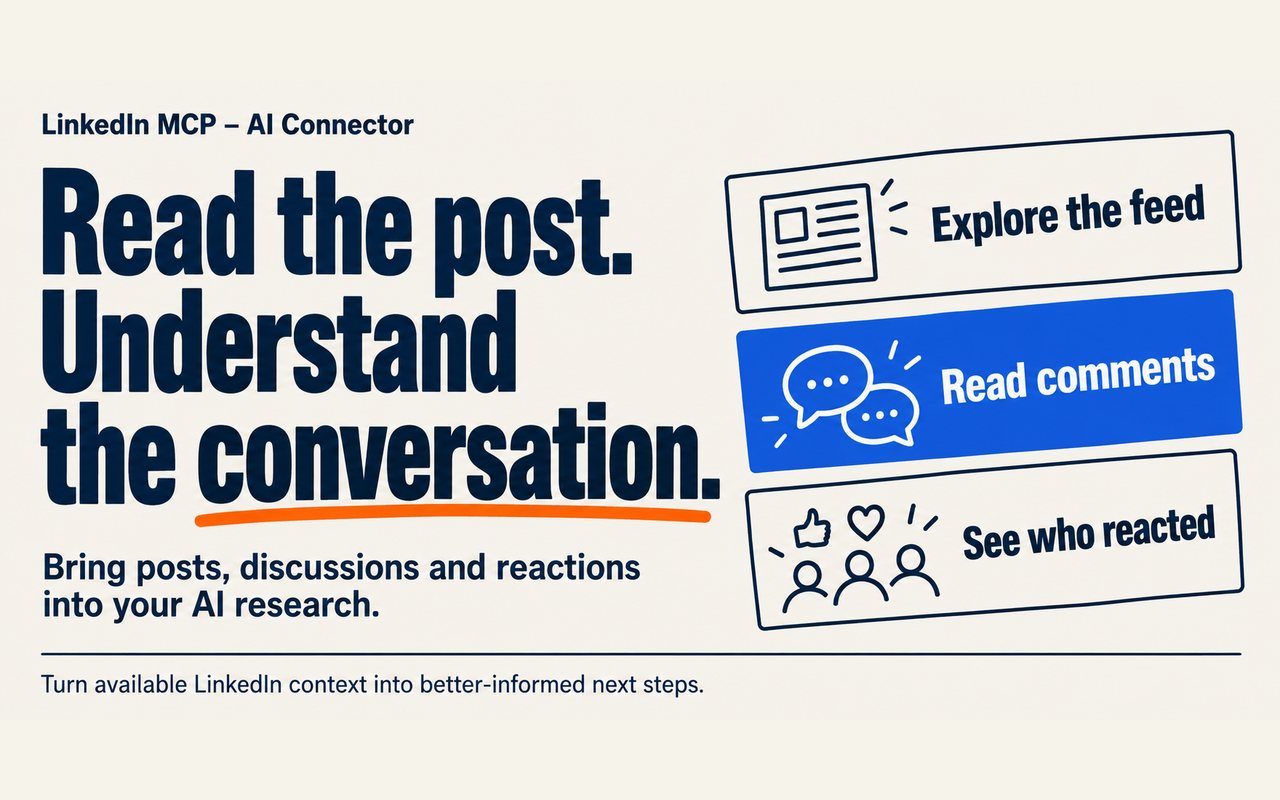
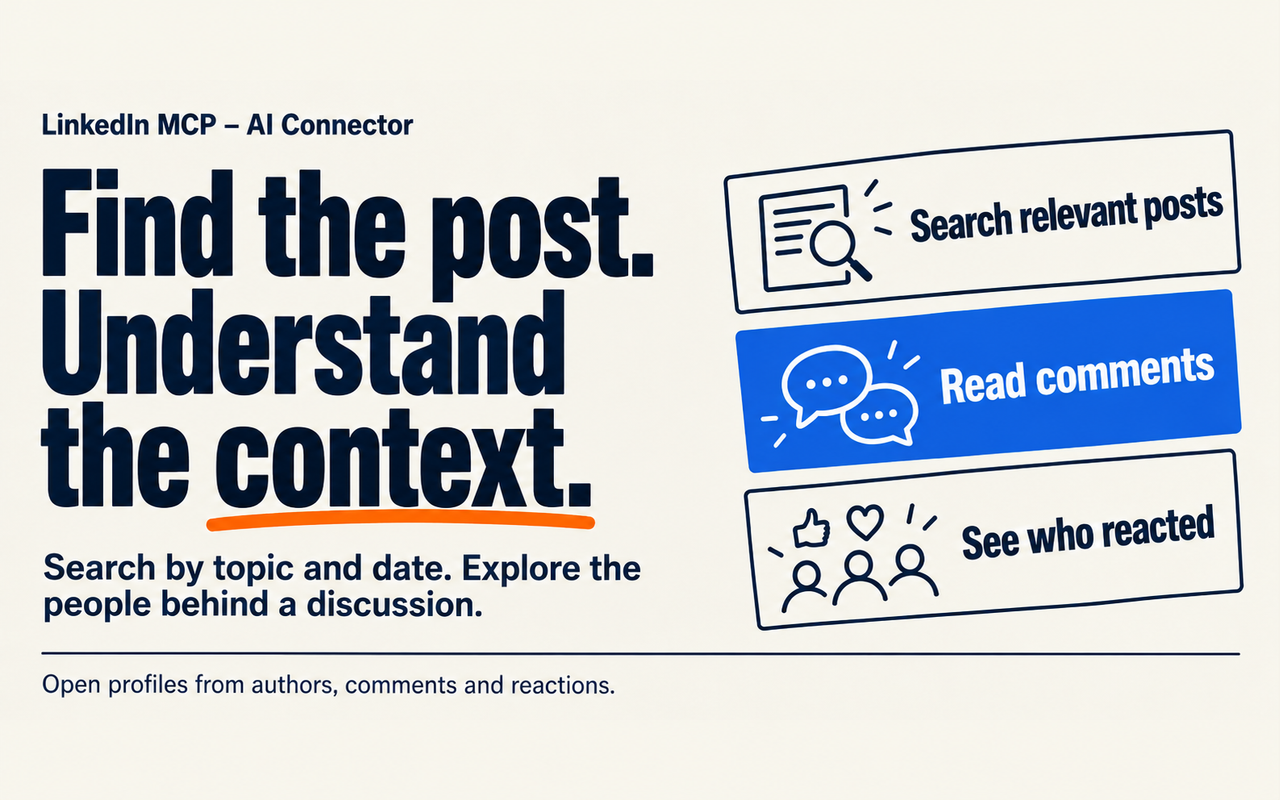
Refresh Store stories and explainers for current LinkedIn primitives

diff --git a/store/SUBMISSION.md b/store/SUBMISSION.md
@@ -1,16 +1,16 @@
-# Chrome Web Store draft — 0.7.1
+# Chrome Web Store draft — 0.7.2 listing refresh
 
-The 0.7.1 package is prepared locally only. No portal upload, submission or publication was performed in this repair increment. The last verified portal state remains the 0.6.0 draft; the previous 0.7.0 upload was unconfirmed after Google requested renewed sign-in. The existing listing and five explainers remain unchanged.
+The listing copy and four of the five explainer graphics were updated locally on 2026-11-01 to reflect the 0.7.2 capability set. This is a targeted refresh of the existing positioning and visual style, not a new product direction. The title, publishing graphic, icon and both promo tiles are unchanged. The portal update is pending: the existing Store session expired and Google now requires the account owner's passkey. No new package upload, submission or publication has been performed. The last verified portal package remains the 0.6.0 draft; the previous 0.7.0 upload was unconfirmed after renewed sign-in.
 
[2 lines of base64/hex data omitted]
 
-All 21 read/diagnostic capabilities and macOS/Windows installation prerequisites have current matching-runtime evidence. Submission remains blocked by eleven missing current-runtime write capability proofs; this increment intentionally performs no live writes. Historical dispatch proofs retain their original fingerprints. See `docs/validation.md` and `docs/repairs-0.7.1.md` for the exact repair and acceptance scope.
[1 lines of base64/hex data omitted]
 
 - Draft: https://chrome.google.com/webstore/devconsole/ca8c63eb-664b-4353-ac7c-af776311ddff/pibhcinkiadfplcaefllaeappkpnpfjm/edit
 - Assigned extension ID: `pibhcinkiadfplcaefllaeappkpnpfjm`.
 - Listing language: English; category: Productivity / Tools.
 - Distribution: free, public, all regions (applies after publication).
-- Saved: description, icon, five explainer graphics, both promo tiles, homepage/support links, permission justifications, privacy URL and reviewer setup instructions.
+- Previously saved: description, icon, five explainer graphics, both promo tiles, homepage/support links, permission justifications, privacy URL and reviewer setup instructions. The 2026-11-01 replacement description and gallery are local until the passkey-gated portal save is verified.
 - Declared data: personally identifiable information, personal communications, website content. No remote executable code.
 
 - Extension: build with `npm run package:store`; upload `dist/linkedin-extension.zip`.
@@ -19,7 +19,7 @@ All 21 read/diagnostic capabilities and macOS/Windows installation prerequisites
 - Repository and installation: https://github.com/h4gen/linkedin-mcp-bridge
 - Support: https://github.com/h4gen/linkedin-mcp-bridge/issues
 - Reviewer installation/test instructions: `store/reviewer.md`.
-- Five Store gallery explainers remain unchanged: inbox, research, people, feed and publishing in `store/explainers/upload/`. These are illustrated capability explanations, not literal UI captures.
+- Five Store gallery explainers in upload order: inbox, feed, people, research (relationships) and publishing in `store/explainers/upload/`. The first four are refreshed; publishing is unchanged. These are illustrated capability explanations, not literal UI captures.
 - Promotional art: `store/graphics-v2/upload/promo-small-440x280.png` and `promo-marquee-1400x560.png`.
 - Icon: `assets/icon128.png`.
 - Visibility: public. Platforms: macOS and native Windows. Separate Git-installed Node server required.
@@ -30,11 +30,23 @@ The assigned ID is recorded in `store/release.json` and used by store builds. De
 
 ## Search positioning
 
-Store title: LinkedIn MCP – AI Connector for Claude & Codex. The 2026-10-30 market report prioritizes “linkedin mcp” and “linkedin mcp server”; Claude connection intent is also evidenced. Codex names a supported local client, not a measured keyword-volume claim. Inbox management, people research and post scheduling describe enabled capabilities in the summary and description. No direct ChatGPT-web integration is claimed. Historical research retains the original product name.
+Store title: LinkedIn MCP – AI Connector for Claude & Codex. The 2026-10-30 market report prioritizes “linkedin mcp” and “linkedin mcp server”; Claude connection intent is also evidenced. Codex names a supported local client, not a measured keyword-volume claim. Inbox management stays the entry point; post research, people/context, relationship-aware reconnection and text planning explain the broader value. No direct ChatGPT-web integration is claimed. Historical research retains the original product name.
+
+## 2026-11-01 content refresh
+
+| Story                 | Updated scope                                                                   | Claim boundary                                                                        |
+| --------------------- | ------------------------------------------------------------------------------- | ------------------------------------------------------------------------------------- |
+| Inbox                 | Find chats by person, read long messages, reply with context                    | Search uses participants/title/preview; no all-message full-text index                |
+| Posts and discussions | Search by topic/date; read text, comments and reactions; open returned profiles | Available pages only; no complete discussion-tree or lead-list promise                |
+| People                | Read profile sections and author posts before a conversation                    | Available source context; no inferred need or automatic lead score                    |
+| Relationships         | Check connections/pending invitations and find earlier personal chats           | Unknown states remain possible; no always-on monitoring or built-in outreach sequence |
+| Publishing            | Native text drafts, scheduling and cancellation                                 | Existing graphic retained; no immediate-publish tool                                  |
+
+The existing ivory/navy/cobalt art direction is preserved. Exact built-in image_gen edit prompts are in `store/explainers/refresh-0.7.2-prompts.json`. All five upload PNGs remain 1280 × 800 RGB. The summary and description in `store/listing.md` are ready to paste; permission and single-purpose fields are separate from public description copy. After sign-in, save only the listing draft and replacement gallery, verify the persisted content/order, and do not submit for review as part of this refresh.
 
 ## Current execution and acceptance contract
 
-Version 0.7.1 exposes 32 composable primitives. Writes execute directly with account checks, exact target validation, idempotency and persisted operation receipts. There is no extension approval queue or review page. Unknown dispatched writes are never automatically repeated. Messaging uses the dedicated messaging API with exact conversation identities, not the feed chat overlay. Post creation supports native drafts and scheduling; there is no immediate publish tool.
+Version 0.7.2 exposes 32 composable primitives. Writes execute directly with account checks, exact target validation, idempotency and persisted operation receipts. There is no extension approval queue or review page. Unknown dispatched writes are never automatically repeated. Messaging uses the dedicated messaging API with exact conversation identities, not the feed chat overlay. Post creation supports native drafts and scheduling; there is no immediate publish tool.
 
 Public-facing acceptance content must be meaningful and specific to its actual context, as required by the repository's `AGENTS.md`. Authorized temporary comments and likes must be removed or reversed after verification. Private evidence stays in ignored local artifacts.
 

diff --git a/store/listing.md b/store/listing.md
@@ -1,18 +1,49 @@
 # LinkedIn MCP – AI Connector for Claude & Codex
 
-Connect LinkedIn to Claude Code, Codex and other local MCP-compatible AI clients. This Chrome extension works with a separately installed LinkedIn MCP server on macOS or Windows.
+## Short description
 
-Manage your LinkedIn inbox: read conversations and message history, search messages, send replies, and manage read or archive status. Create native text post drafts and schedule LinkedIn posts for later. Requested writes execute directly through the connected account without extension confirmation. Research people, feed posts, comments and reactions through bounded, paginated reads. LinkedIn can limit or hide results; this tool does not promise complete lead lists.
+Connect LinkedIn to Claude & Codex: manage your inbox, research posts and people, check connections, draft and schedule posts.
 
-Requires: macOS or native Windows, Chrome, a Git-installed local MCP bridge, a supported local MCP client, and your own signed-in LinkedIn session. This is not a direct connector for ChatGPT's website. Sales Navigator, attachment uploads and automated outreach campaigns are not included.
+## Detailed description
+
+Bring LinkedIn conversations, people and posts into Claude Code, Codex and other local MCP-compatible AI clients. Give your agent the context to research a person, pick up an earlier conversation or prepare your next post, with less copying between tabs.
+
+This Chrome extension connects your signed-in LinkedIn account to a separately installed LinkedIn MCP server. Its 32 tools work together; you choose the task and your agent combines the steps.
+
+MANAGE YOUR INBOX WITH CONTEXT
+Find conversations by participant, title or preview, or find the exact personal chats for a profile, including archived conversations. Read recent messages and older history, retrieve long message text, send replies, and manage read or archive status. History reads leave the read status unchanged. Conversation search is not a full-text search of all message bodies.
+
+FIND RELEVANT POSTS AND THE PEOPLE BEHIND THEM
+Search LinkedIn posts by topic, sort by relevance or newest, and use supported date filters. Open a post from its link, read the available text beyond the preview, and explore comments and reactions. Follow returned author, commenter and reactor references straight to their profiles. Continue through available result pages instead of stopping at the first few hits.
+
+UNDERSTAND A PERSON BEFORE YOU REACH OUT
+Search people and read their background, current positions, location and recent posts. Check available connection and invitation status, then find previous personal conversations. Ask your agent to bring that context together before a meeting, a reconnection or a personal reply. Send and manage invitations, or react and comment on selected posts when requested.
+
+PREPARE AND SCHEDULE TEXT POSTS
+Create native LinkedIn text drafts, schedule posts for later, inspect scheduled posts and cancel a scheduled post. Your agent can turn research or your own notes into a draft. There is no immediate-publish tool.
+
+For example, ask your agent to:
+
+- Find recent posts about a topic, read the comments and research a relevant participant.
+- Check how you are connected to a person and read your earlier conversation before preparing a reply.
+- Turn your notes into a LinkedIn text draft and schedule it for your chosen time.
+
+These are tasks your agent can compose, not built-in campaigns or a CRM. Reads are bounded and paginated. Unavailable profile sections, uncertain relationship states and incomplete results are identified; missing results are not proof that nothing exists. There is no always-on reply monitoring or automatic outreach sequence.
+
+SETUP AND CONTROL
+Requires macOS or native Windows, Chrome, Node.js 22+, the Git-installed local MCP server, a supported local MCP client and your own signed-in LinkedIn session. Your local agent can install the server from the repository below. This is not a direct connector for ChatGPT's website. Sales Navigator and attachment uploads are not included.
+
+Once connected, the extension can recover its work tab and local connection while Chrome is running. It preserves an explicit pause or disconnect. Requested writes execute directly through the connected account without an extension approval queue; operation receipts help avoid duplicate sends after interruptions.
 
 Requested LinkedIn content passes through the local MCP bridge to your configured MCP client. That client may transfer it to its AI provider. We do not operate a cloud relay or collect product telemetry. You can pause, disconnect and clear local data.
 
-Independent software, not affiliated with or endorsed by LinkedIn.
-
 Install the local server: https://github.com/h4gen/linkedin-mcp-bridge
 
-Single purpose: let users access and manage their own LinkedIn workflow through their chosen local MCP client, with visible controls over outbound actions.
+Independent software, not affiliated with or endorsed by LinkedIn.
+
+## Single purpose
+
+Let users read and manage their LinkedIn conversations, professional context and text posts through their chosen local MCP client.
 
 ## Permission justifications
 

diff --git a/store/explainers/README.md b/store/explainers/README.md
@@ -1,12 +1,13 @@
 # Store gallery explainers
 
-Five 1280 × 800 RGB PNGs in the accepted ivory/navy/cobalt campaign style, generated with built-in image_gen. Exact prompts: prompts.json. Source images are preserved in source/. Export with export.cjs and sharp (NODE_PATH if needed).
+Five 1280 × 800 RGB PNGs in the accepted ivory/navy/cobalt campaign style, generated with built-in image_gen. Four images were selectively refreshed for 0.7.2 on 2026-11-01; publishing is unchanged. Current edit prompts: `refresh-0.7.2-prompts.json`. Original prompts remain in `prompts.json` and `expanded-prompts.json`; earlier artwork remains in Git history. Source images are preserved in `source/`. Export with `export.cjs` and sharp (`NODE_PATH` if needed).
 
-- upload/inbox-1280x800.png: message search, context, replies and organization.
-- upload/research-1280x800.png: profile research, native text drafts and post scheduling.
+- `upload/inbox-1280x800.png`: chats by person, long messages, replies and organization. Removes the misleading suggestion of full-text message search.
+- `upload/feed-1280x800.png`: topic/date post search, comments, reactions and direct profile handoff. Does not promise complete reply trees.
+- `upload/people-1280x800.png`: people search, profile/background/current role and author posts for conversation preparation.
+- `upload/research-1280x800.png`: connection status, pending invitations and existing personal chats. Replaces the former research/publishing overlap; the filename stays stable for existing references.
+- `upload/publishing-1280x800.png`: native text drafts, scheduling and cancellation; unchanged.
 
 These are promotional capability explainers for the store gallery, not screenshots of an application UI. Original popup captures remain in store/screenshots/ as historical source material.
 
-- upload/people-1280x800.png: people search and meeting preparation.
-- upload/feed-1280x800.png: posts, comments and reactions.
-- upload/publishing-1280x800.png: text drafts, scheduling and cancellation.
+Suggested gallery order: inbox → feed → people → research (relationships) → publishing. The stories explain tasks an agent can compose from primitives, not built-in campaigns, lead scores, CRM state or autonomous monitoring. The SEO title and both promotional tiles stay unchanged. See `../listing.md` for the complete copy and `../SUBMISSION.md` for portal status.

diff --git a/store/reviewer.md b/store/reviewer.md
@@ -8,7 +8,7 @@ Public Chrome extension with a separate Git-installed MCP server for macOS and n
 4. Request a message to an expressly consenting test contact with a unique idempotency key. It executes directly without extension review. Inspect its receipt and LinkedIn UI.
 5. Replay the same key and verify there is still only one message. Never resend a receipt marked unknown_outcome with a new key.
 6. Test inbox read/archive operations on a named test conversation and restore its original state. These execute directly too.
-7. Search people with explicit supported filters, inspect a post, and page reactions/comments. Incomplete scans must be labeled partial. No Sales Navigator or bulk outreach functionality is present.
+7. Search posts by topic with supported sort/date filters, follow the returned post reference and page comments/reactions. Open a returned person's profile and author posts, check relationship evidence, and find exact personal conversations including archive. Re-read a conversation and then resolve its participant URN again; it must not require an independently known profile slug. Incomplete scans must be labeled partial and uncertain relationships remain unknown. Comment-parent reconstruction is not represented as complete. No Sales Navigator or bulk outreach functionality is present.
 8. Repeat a consumed cursor and verify an identical page. Navigate or interact with the work tab, then verify the old DOM cursor is rejected explicitly.
 9. With the connection enabled, close only the dedicated work tab and make another read. The extension must recover without a Connect click. An extension worker/native-host restart must preserve the account binding and operation receipts. Chrome must already be running; the server does not launch a closed browser.
 10. Explicitly pause/disconnect, close the LinkedIn tab, and restart Chrome. Calls must fail clearly, preserve that deliberate choice and never attach to another account.
